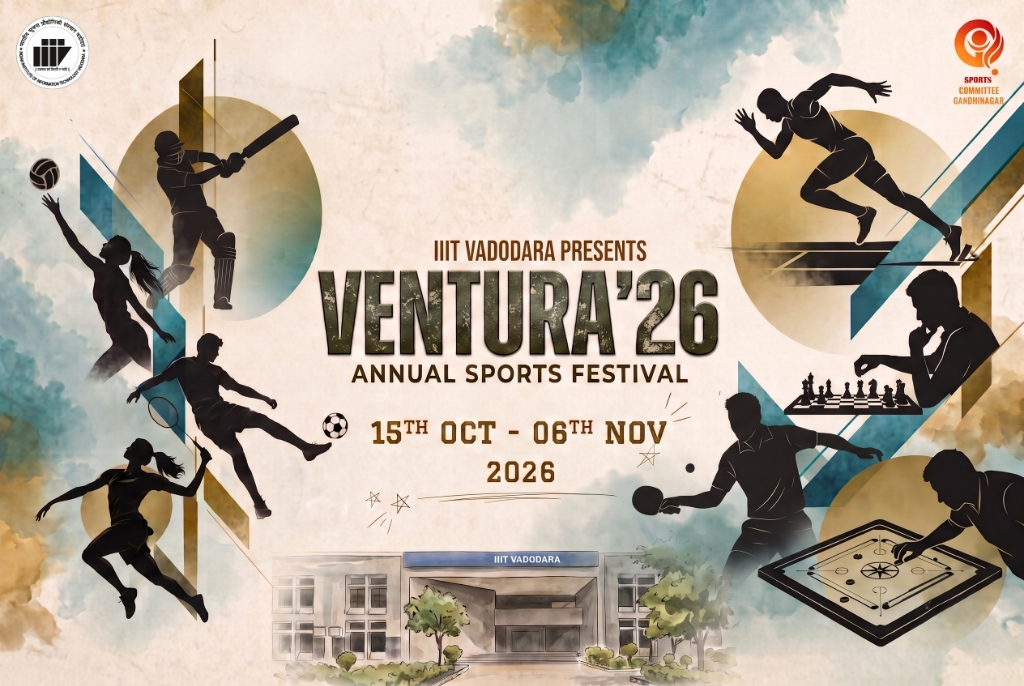
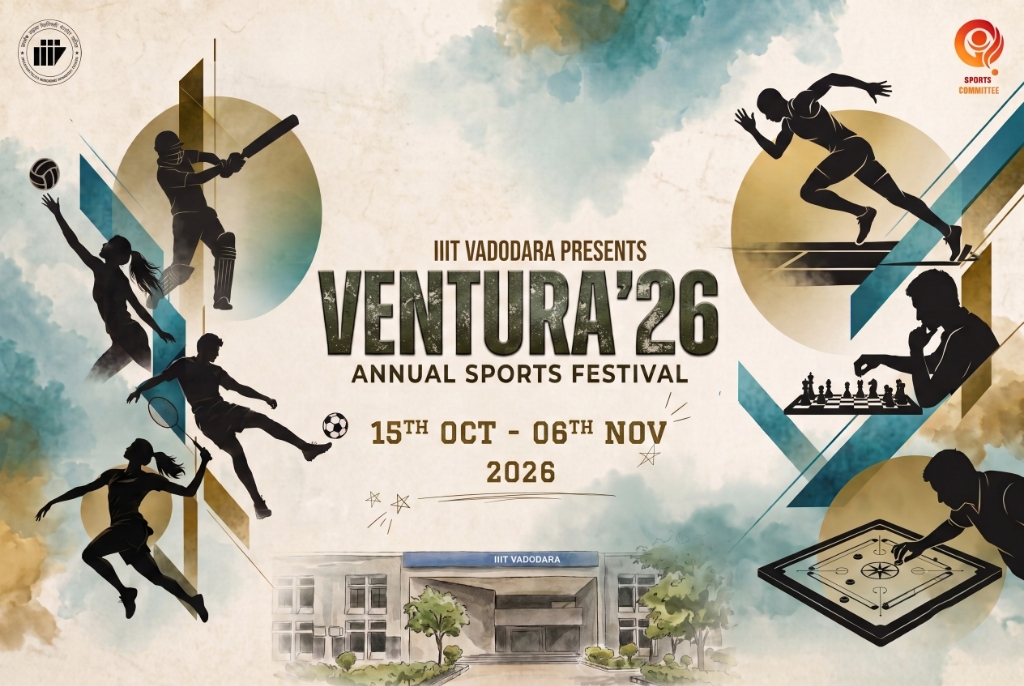
Set official Ventura'26 poster as subtle artistic watermark background with high text readability

diff --git a/assets/css/style.css b/assets/css/style.css
@@ -103,12 +103,23 @@ body {
   position: relative;
   min-height: 100vh;
   overflow-x: hidden;
-  background-color: var(--light-bg);
-  background-image: 
-    radial-gradient(circle at 10% 15%, rgba(32, 169, 214, 0.06) 0%, transparent 40%),
-    radial-gradient(circle at 90% 85%, rgba(20, 85, 166, 0.05) 0%, transparent 40%),
-    radial-gradient(circle at 50% 50%, rgba(245, 166, 35, 0.03) 0%, transparent 50%);
+  background-color: #F6FAFD;
+}
+
+/* Subtle Official Ventura'26 Poster Artistic Watermark Background */
+body::before {
+  content: "";
+  position: fixed;
+  inset: 0;
+  z-index: -2;
+  background-image: url('../images/ventura-poster.jpg');
+  background-size: cover;
+  background-position: center top;
+  background-repeat: no-repeat;
   background-attachment: fixed;
+  opacity: 0.22;
+  filter: saturate(1.15) contrast(1.05);
+  pointer-events: none;
 }
 
 /* Subtle atmospheric mesh */
@@ -600,7 +611,8 @@ body.nav-open {
   padding: 5rem 0 4rem 0;
   text-align: center;
   overflow: hidden;
-  background: linear-gradient(180deg, #FFFFFF 0%, #F2F7FA 100%);
+  background: rgba(246, 250, 253, 0.42);
+  backdrop-filter: blur(1px);
   border-bottom: 1px solid var(--border-light);
 }
 
@@ -661,18 +673,21 @@ body.nav-open {
 }
 
 .gradient-text {
-  background: linear-gradient(135deg, #1455A6 0%, #20A9D6 55%, #F5A623 100%);
+  background: linear-gradient(135deg, #1455A6 0%, #20A9D6 60%, #D98204 100%);
   -webkit-background-clip: text;
   -webkit-text-fill-color: transparent;
   display: inline-block;
+  font-weight: 900;
 }
 
 .hero p.tagline {
   font-size: 1.15rem;
-  color: var(--text-secondary);
+  color: #1e293b;
   max-width: 680px;
   margin: 0 auto 2.25rem auto;
   line-height: 1.6;
+  font-weight: 500;
+  text-shadow: 0 1px 14px rgba(255, 255, 255, 0.95);
 }
 
 /* Hero Stats */
